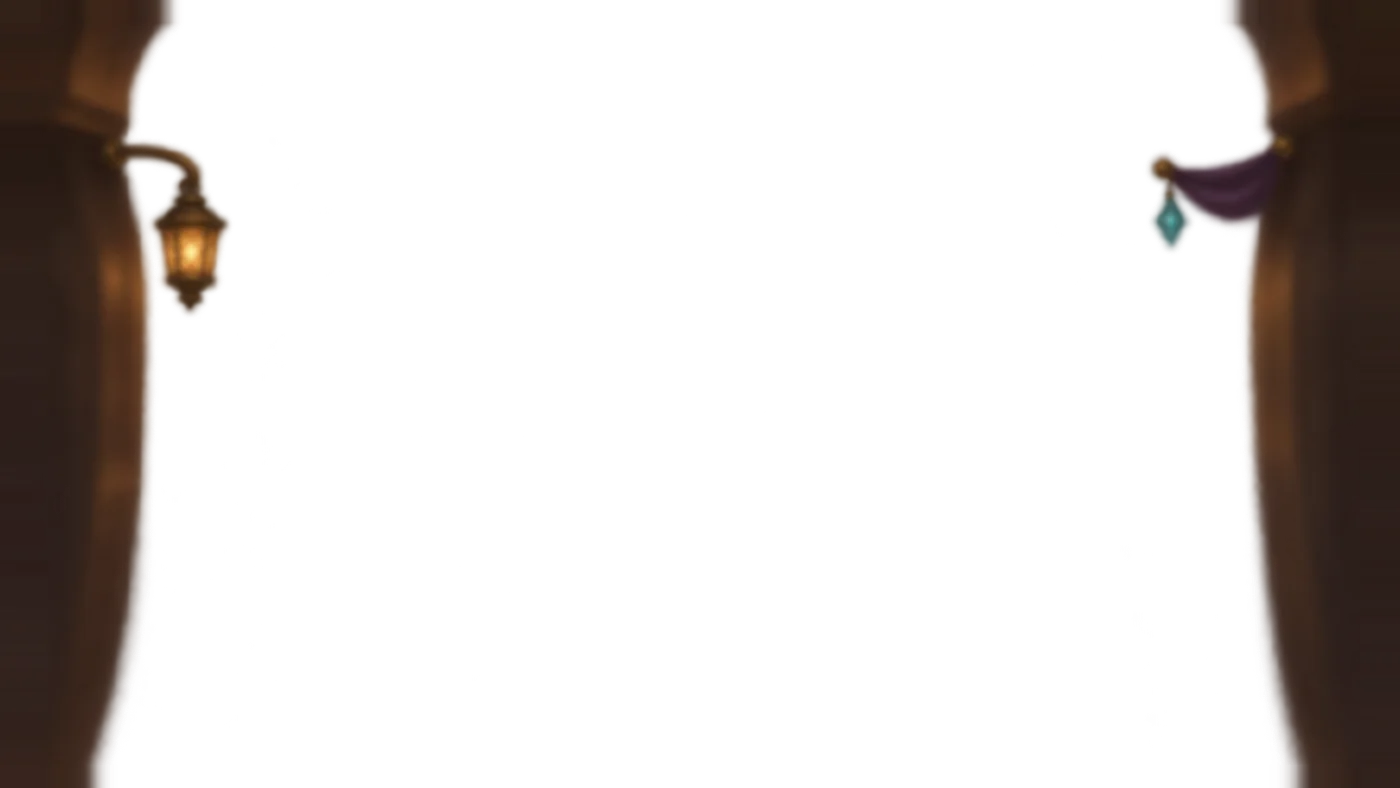
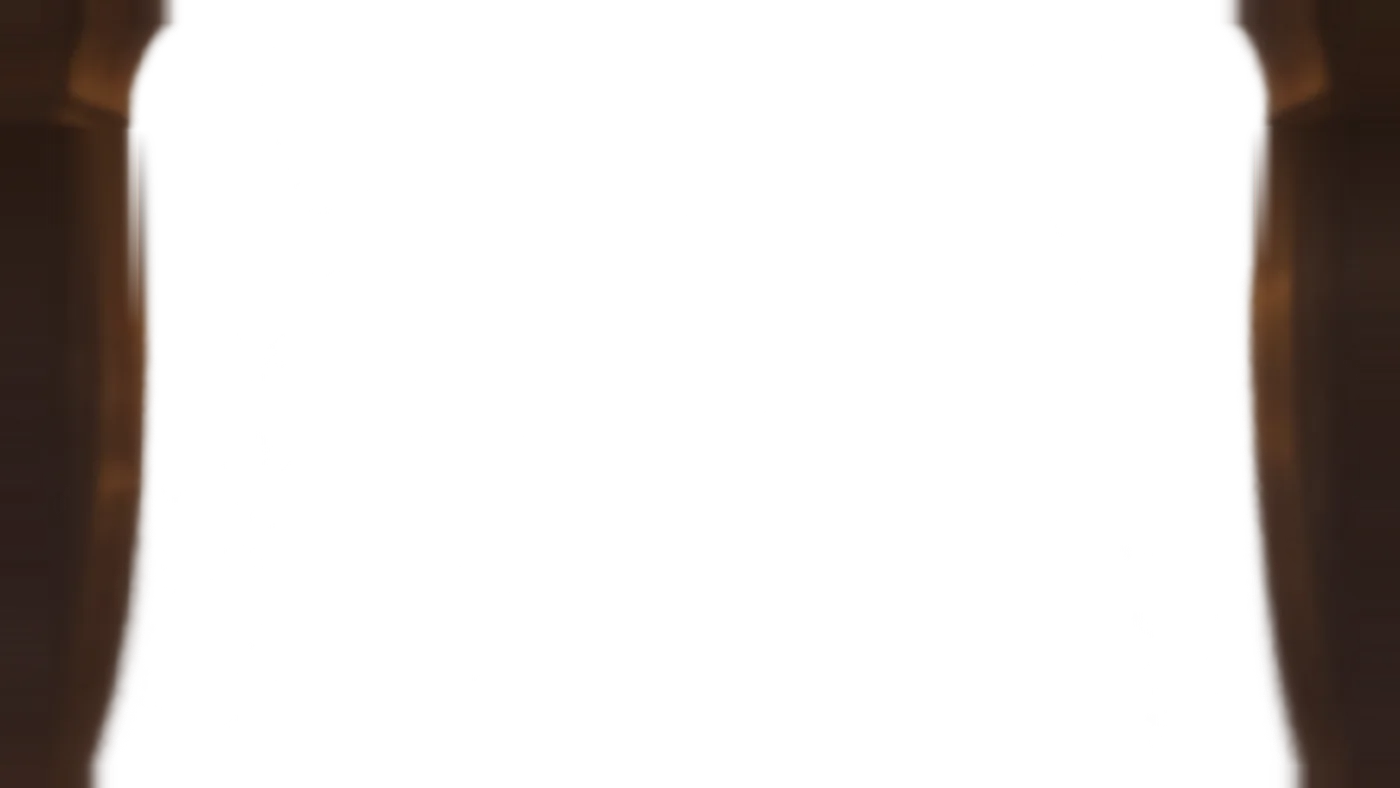
feat(ui): pack shop: the foreground loses its small lantern and swag (curtain edges only)
Owner 2026-11-25: "these elements are so small. it makes no sense ... i dont want those involved".
Both are painted out of the art with the curtain rows above and below them.

Changed region(s): [[0.0614, 0.1827, 0.1843, 0.3959], [0.7986, 0.1523, 0.9214, 0.335]]

diff --git a/packages/ui/src/progression/packShop/shopBackdrop.ts b/packages/ui/src/progression/packShop/shopBackdrop.ts
@@ -29,7 +29,8 @@ export const SHOP_ART: Partial<Record<BackdropLayer, string>> = {
   // owner 2026-11-25 (prompts.md 5b): the wooden counter, a till and ledger far left, scrolls and a candle far right.
   // Cropped so its back edge sits at COUNTER_HEADROOM of the image, as the placeholder's does.
   counter: '/packs/shop-counter.webp',
-  // owner 2026-11-25 (prompts.md 5c): soft-focus curtains down both edges, a lantern and a swag in the top corners.
+  // owner 2026-11-25 (prompts.md 5c): soft-focus curtains down both edges, and nothing else: the painting's
+  // small lantern and swag were painted out (owner: at that distance they would be huge and blurred, and unwanted).
   // The file is the painting with its edge pixels repeated outward by 3%: less than OVERSCAN.fore, on purpose, so the
   // curtains sit mostly off screen and encroach less (owner 2026-11-25). Rebuild with a larger repeat to bring them in.
   fore: '/packs/shop-fore.webp',
